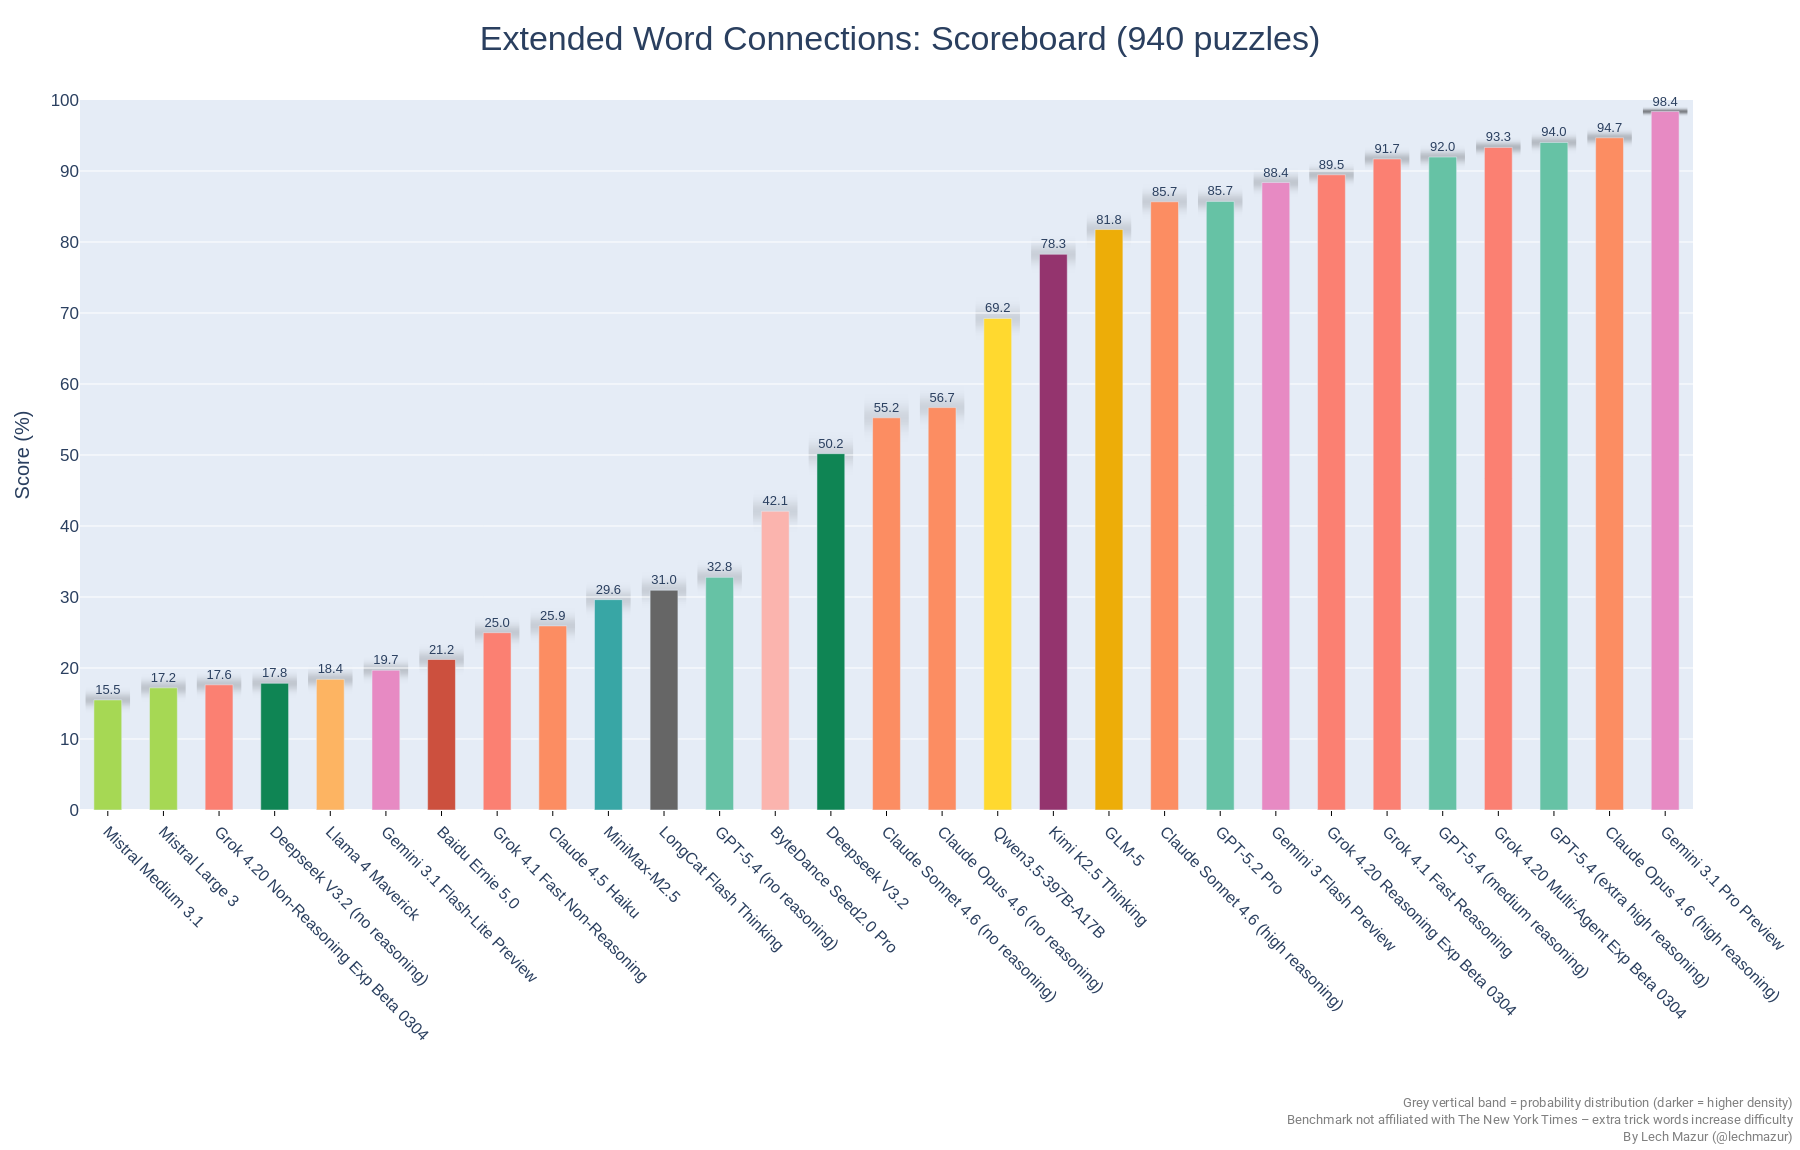
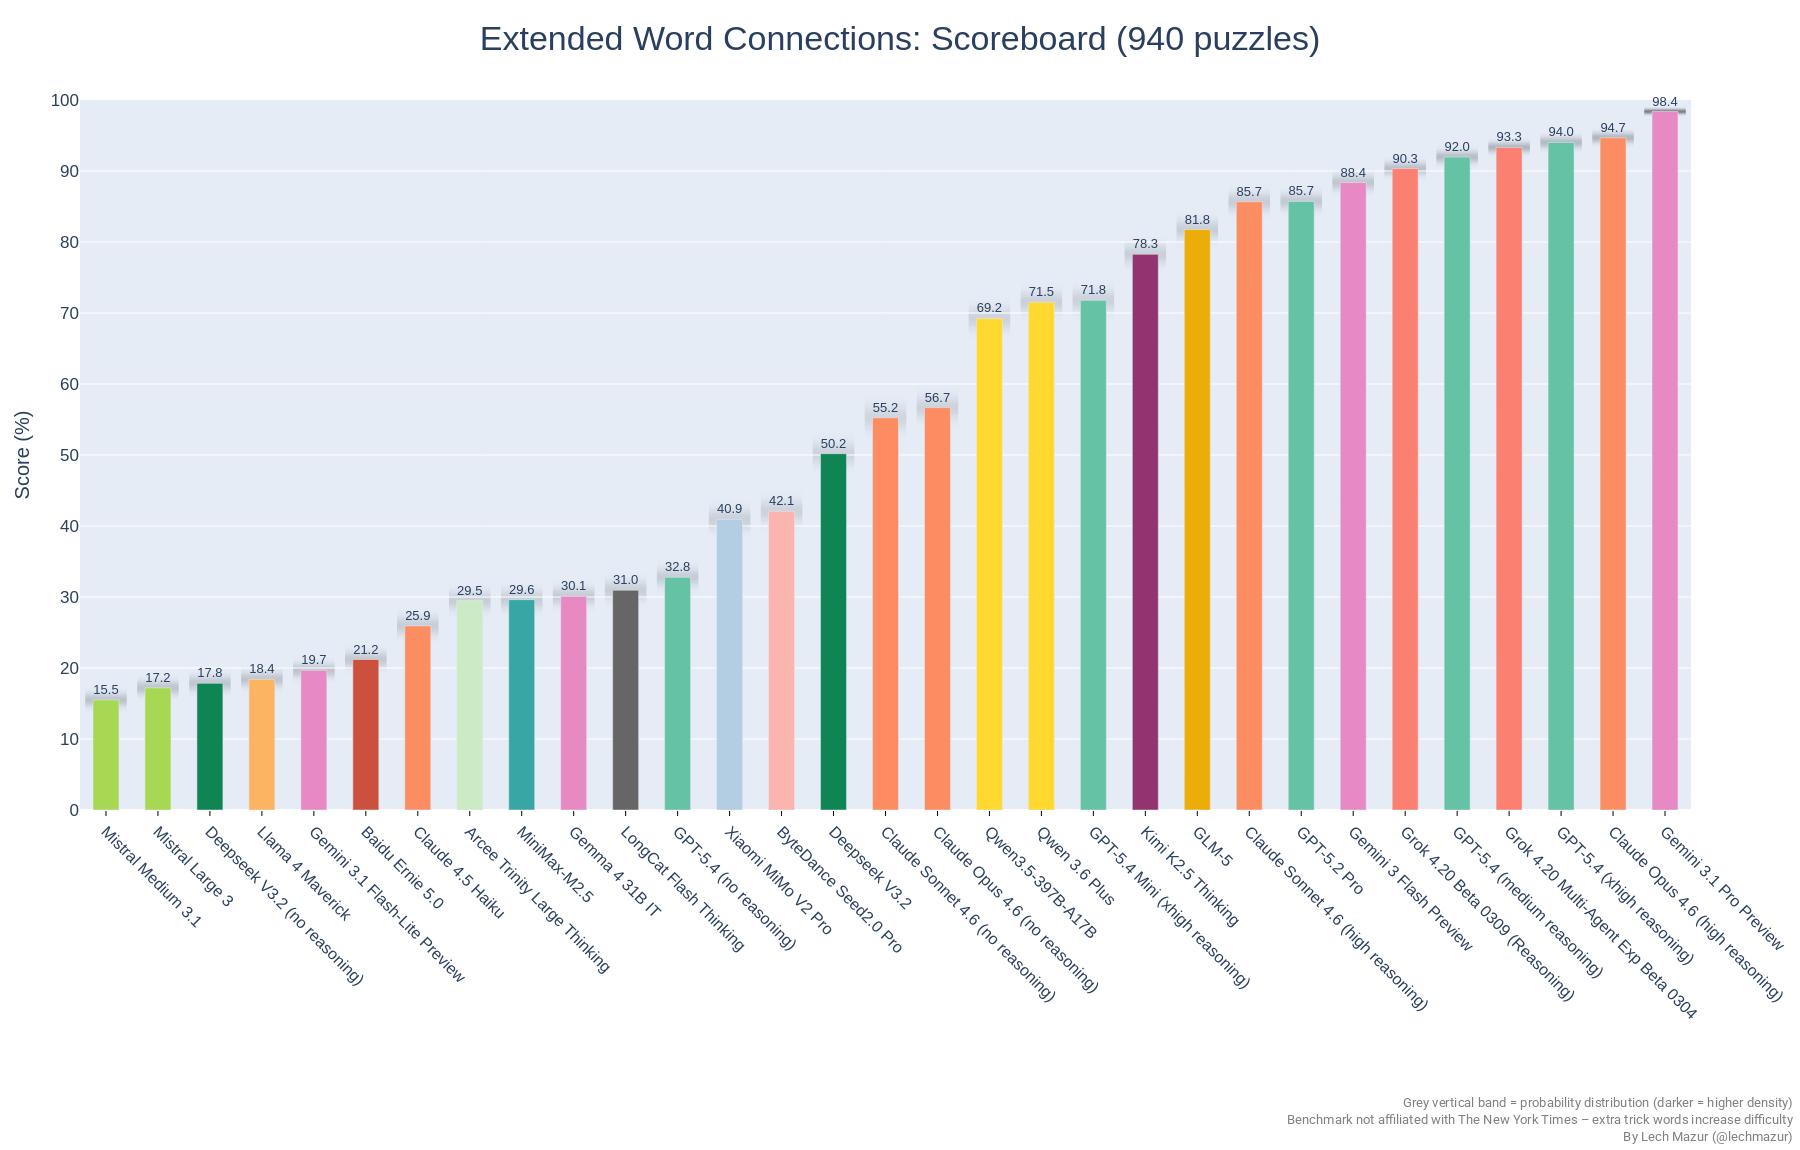
Arcee Trinity Large Thinking, Qwen 3.6 Plus, Gemma 4 31B added.

Changed region(s): [[0.0622, 0.0913, 0.9956, 0.8826], [0.7156, 0.8522, 0.7467, 0.8826]]

diff --git a/README.md b/README.md
@@ -15,49 +15,55 @@ As of Feb 4, 2025, there is a new version of the benchmark. The standard NYT Con
 |1|Gemini 3.1 Pro Preview|98.4|940|
 |2|Gemini 3 Pro Preview|96.3|940|
 |3|Claude Opus 4.6 (high reasoning)|94.7|940|
-|4|GPT-5.4 (extra high reasoning)|94.0|940|
+|4|GPT-5.4 (xhigh reasoning)|94.0|940|
 |5|Grok 4.20 Multi-Agent Exp Beta 0304|93.3|940|
 |6|GPT-5.4 (medium reasoning)|92.0|940|
 |7|Grok 4.1 Fast Reasoning|91.7|940|
-|8|Grok 4.20 Reasoning Exp Beta 0304|89.5|940|
-|9|GPT-5.2 (extra high reasoning)|88.6|940|
-|10|Gemini 3 Flash Preview|88.4|940|
-|11|GPT-5.2 Pro|85.7|940|
-|12|Claude Sonnet 4.6 (high reasoning)|85.7|940|
-|13|Claude Sonnet 4.6 Thinking 32K|82.4|940|
-|14|GLM-5|81.8|940|
-|15|Claude Opus 4.6 Thinking 16K|81.7|940|
-|16|Kimi K2.5 Thinking|78.3|940|
-|17|GPT-5.2 (high reasoning)|77.5|940|
-|18|GPT-5.2 (medium reasoning)|71.4|940|
-|19|Qwen3.5-397B-A17B|69.2|940|
-|20|GPT-5.2 (low reasoning)|66.7|940|
-|21|Claude Opus 4.5 Thinking 16K|62.6|940|
-|22|Claude Opus 4.5 (no reasoning)|60.3|940|
-|23|Claude Sonnet 4.6 Thinking 16K|57.6|940|
-|24|Claude Opus 4.6 (no reasoning)|56.7|940|
-|25|Claude Sonnet 4.6 (no reasoning)|55.2|940|
-|26|Deepseek V3.2|50.2|940|
-|27|Claude Sonnet 4.5 Thinking 16K|49.3|940|
-|28|Claude Sonnet 4.5 (no reasoning)|47.4|940|
-|29|ByteDance Seed2.0 Pro|42.1|940|
-|30|Qwen3 Max (2026-01-23)|41.8|940|
-|31|GPT-5.4 (no reasoning)|32.8|940|
-|32|LongCat Flash Thinking|31.0|940|
-|33|MiniMax-M2.5|29.6|940|
-|34|GPT-5.2 (no reasoning)|28.1|940|
-|35|MiniMax-M2|27.0|940|
-|36|Claude 4.5 Haiku|25.9|940|
-|37|Grok 4.1 Fast Non-Reasoning|25.0|940|
-|38|Qwen 3 Max Thinking|24.1|940|
-|39|MiniMax-M2.1|22.7|940|
-|40|Baidu Ernie 5.0|21.2|940|
-|41|Gemini 3.1 Flash-Lite Preview|19.7|940|
-|42|Llama 4 Maverick|18.4|940|
-|43|Deepseek V3.2 (no reasoning)|17.8|940|
-|44|Grok 4.20 Non-Reasoning Exp Beta 0304|17.6|940|
-|45|Mistral Large 3|17.2|940|
-|46|Mistral Medium 3.1|15.5|940|
+|8|Grok 4.20 Beta 0309 (Reasoning)|90.3|940|
+|9|Grok 4.20 Reasoning Exp Beta 0304|89.5|940|
+|10|GPT-5.2 (xhigh reasoning)|88.6|940|
+|11|Gemini 3 Flash Preview|88.4|940|
+|12|GPT-5.2 Pro|85.7|940|
+|13|Claude Sonnet 4.6 (high reasoning)|85.7|940|
+|14|Claude Sonnet 4.6 Thinking 32K|82.4|940|
+|15|GLM-5|81.8|940|
+|16|Claude Opus 4.6 Thinking 16K|81.7|940|
+|17|Kimi K2.5 Thinking|78.3|940|
+|18|GPT-5.2 (high reasoning)|77.5|940|
+|19|GPT-5.4 Mini (xhigh reasoning)|71.8|940|
+|20|Qwen 3.6 Plus|71.5|940|
+|21|GPT-5.2 (medium reasoning)|71.4|940|
+|22|Qwen3.5-397B-A17B|69.2|940|
+|23|GPT-5.2 (low reasoning)|66.7|940|
+|24|Claude Opus 4.5 Thinking 16K|62.6|940|
+|25|Claude Opus 4.5 (no reasoning)|60.3|940|
+|26|Claude Sonnet 4.6 Thinking 16K|57.6|940|
+|27|Claude Opus 4.6 (no reasoning)|56.7|940|
+|28|Claude Sonnet 4.6 (no reasoning)|55.2|940|
+|29|Deepseek V3.2|50.2|940|
+|30|Claude Sonnet 4.5 Thinking 16K|49.3|940|
+|31|Claude Sonnet 4.5 (no reasoning)|47.4|940|
+|32|ByteDance Seed2.0 Pro|42.1|940|
+|33|Qwen3 Max (2026-01-23)|41.8|940|
+|34|Xiaomi MiMo V2 Pro|40.9|940|
+|35|GPT-5.4 (no reasoning)|32.8|940|
+|36|LongCat Flash Thinking|31.0|940|
+|37|Gemma 4 31B IT|30.1|940|
+|38|MiniMax-M2.5|29.6|940|
+|39|Arcee Trinity Large Thinking|29.5|940|
+|40|GPT-5.2 (no reasoning)|28.1|940|
+|41|MiniMax-M2|27.0|940|
+|42|Claude 4.5 Haiku|25.9|940|
+|43|Grok 4.1 Fast Non-Reasoning|25.0|940|
+|44|Qwen 3 Max Thinking|24.1|940|
+|45|MiniMax-M2.1|22.7|940|
+|46|Baidu Ernie 5.0|21.2|940|
+|47|Gemini 3.1 Flash-Lite Preview|19.7|940|
+|48|Llama 4 Maverick|18.4|940|
+|49|Deepseek V3.2 (no reasoning)|17.8|940|
+|50|Grok 4.20 Non-Reasoning Exp Beta 0304|17.6|940|
+|51|Mistral Large 3|17.2|940|
+|52|Mistral Medium 3.1|15.5|940|
 
 
 
@@ -281,6 +287,7 @@ These models are excluded from the main board because they ran fewer than 940 to
 ---
 
 ## Updates
+- April 3, 2026: Arcee Trinity Large Thinking, Qwen 3.6 Plus, Gemma 4 31B added.
 - Mar 6, 2026: Grok 4.20 Beta Experminatal, Gemini 3.1 Flash-Lite Preview added.
 - Mar 5, 2026: GPT-5.4 added.
 - Feb 23, 2026: GLM-5 added.
